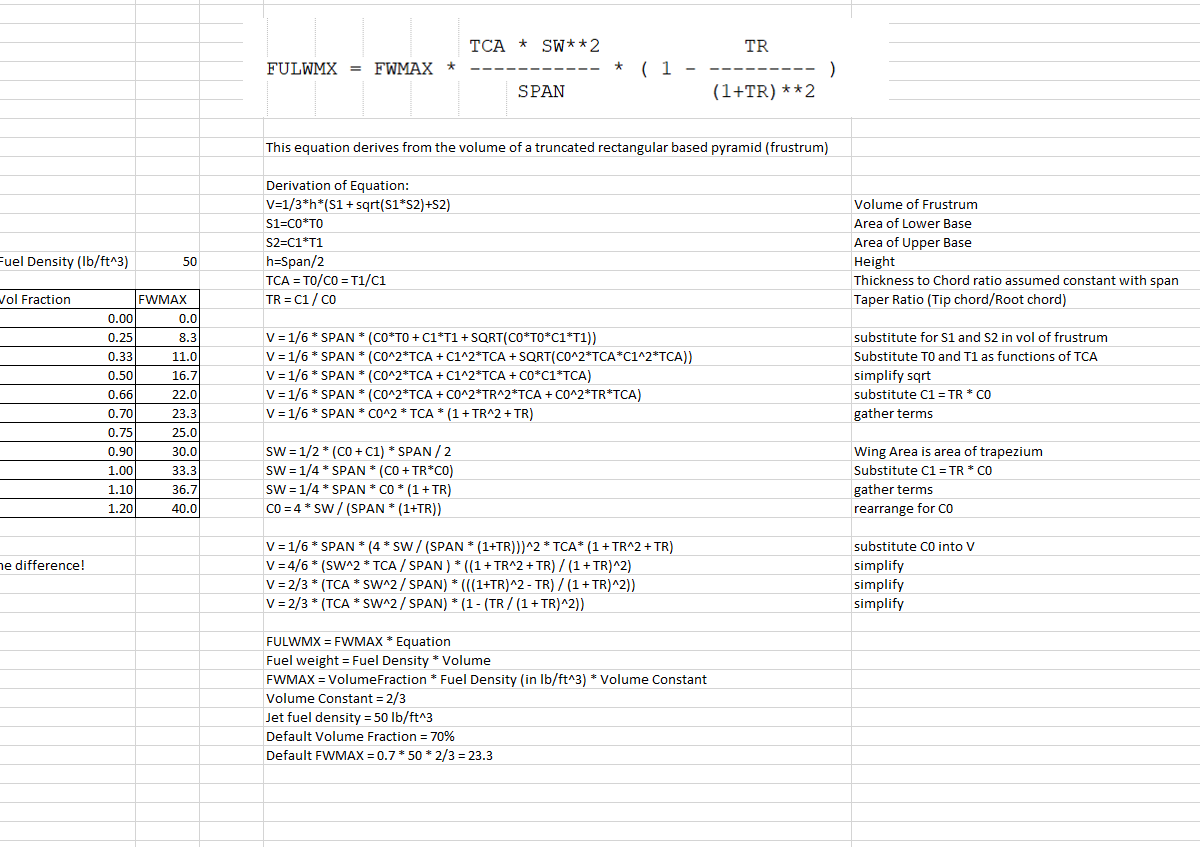
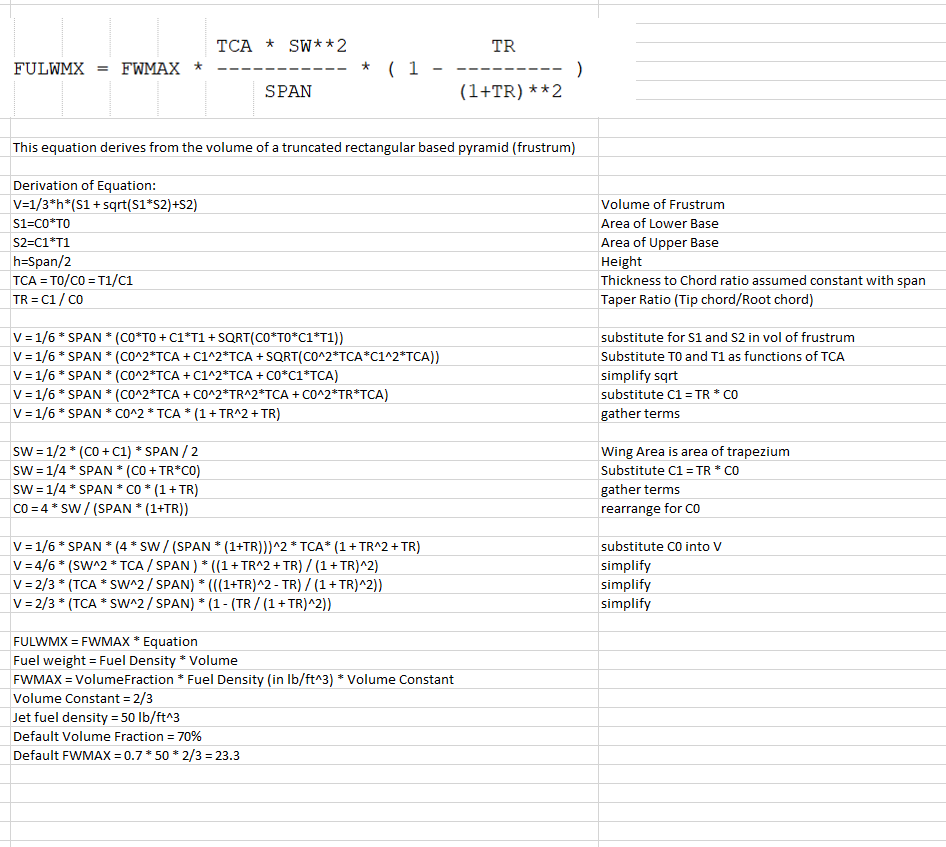
changing verbosity on fuel capacity constraint warning and cropping fuel capcity derivation pic

diff --git a/aviary/core/aviary_group.py b/aviary/core/aviary_group.py
@@ -1025,7 +1025,7 @@ class AviaryGroup(om.Group):
         if not ignore_capacity_constraint:
             self.add_constraint(Mission.Constraints.EXCESS_FUEL_CAPACITY, lower=0, units='lbm')
         else:
-            if verbosity >= Verbosity.BRIEF:
+            if verbosity >= Verbosity.VERBOSE:
                 warnings.warn(
                     'Aircraft.Fuel.IGNORE_FUEL_CAPACITY_CONSTRAINT = True, therefore EXCESS_FUEL_CAPACITY constraint was not added to the Aviary problem.'
                     'The aircraft may not have enough space for fuel, so check the value of Mission.Constraints.EXCESS_FUEL_CAPACITY for details.'
